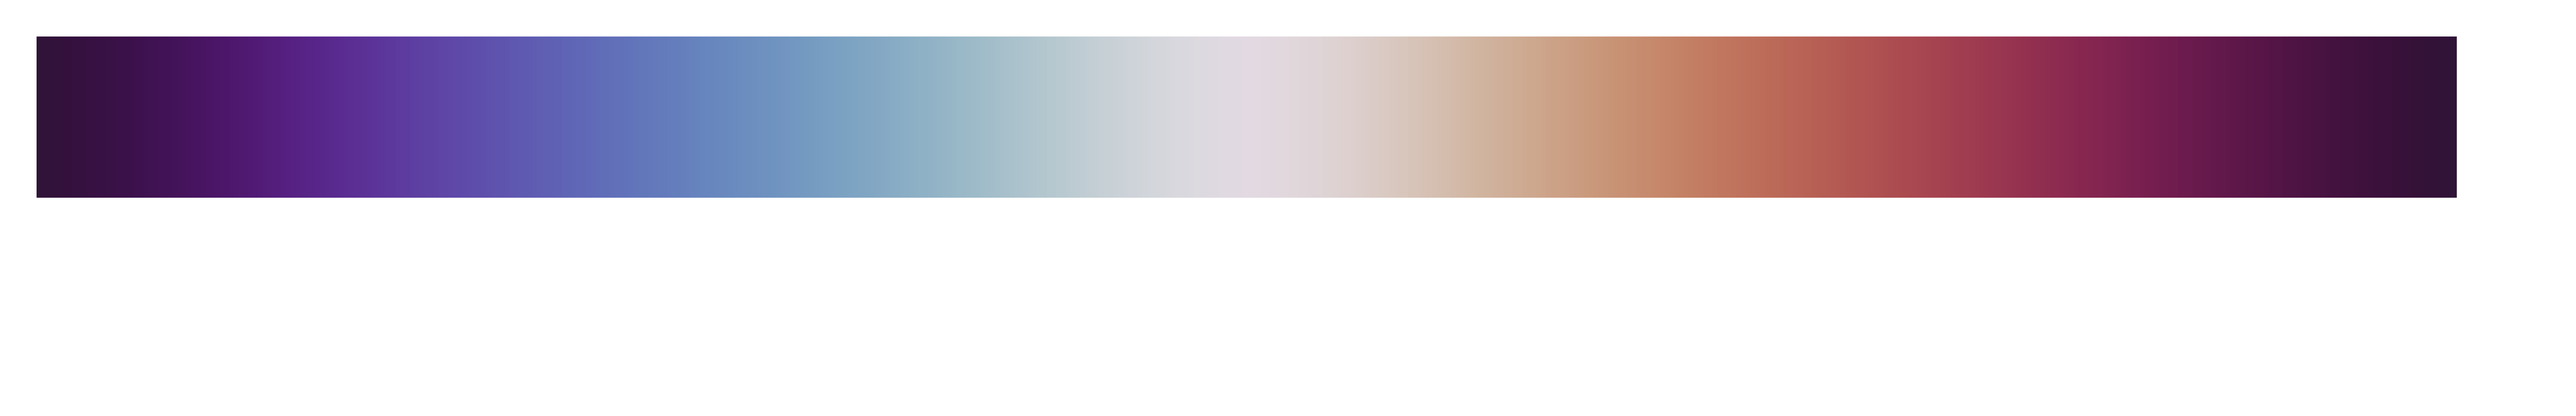
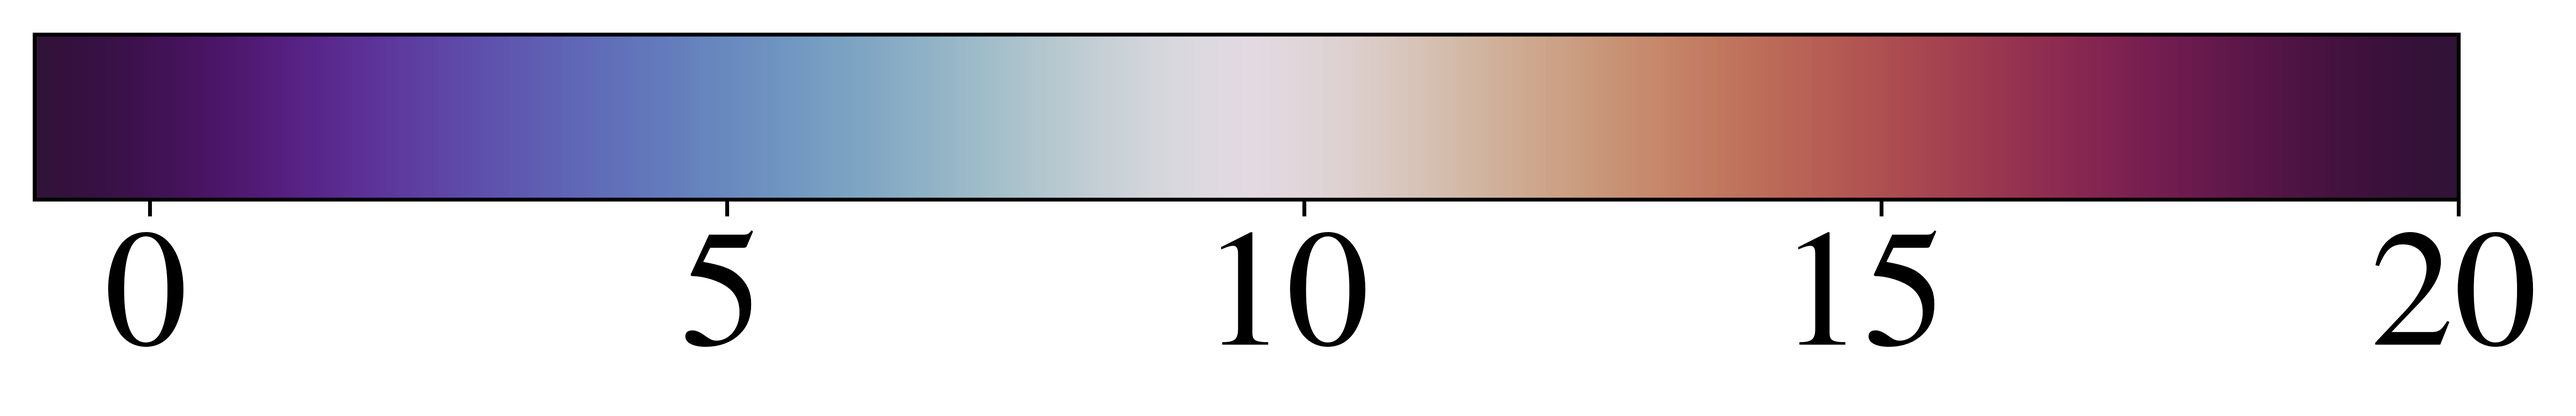
Update doc background

diff --git a/docs/background.md b/docs/background.md
@@ -1,4 +1,4 @@
-# Hyperspectral Imaging in Radio Interferometry
+# Introduction
 
 Radio interferometry (RI) is an astronomical imaging technique that combines
 measurements from arrays of antennas to form high-resolution images of the radio
@@ -15,41 +15,38 @@ imaging problem and the algorithms implemented in pyHyperRI.
 
 ## RI Imaging Model
 
-The example below shows the radio galaxy 3C 353. Radio images can have a high
-dynamic range, with faint extended emission coexisting with bright compact
-features.
+Radio images can have a high dynamic range, with faint extended emission 
+coexisting with bright compact features. The example below shows the radio galaxy 
+3C 353.
 
 ```{image} _images/background/ri-sky-3c353.png
-:alt: Original 3C 353 ground-truth radio image.
-:width: 22%
+:width: 20%
 :align: center
 ```
 
 ```{figure} _images/background/ri-log-colorbar.png
-:alt: Logarithmic intensity colour bar for the sample radio image.
-:width: 22%
+:width: 18%
 :align: center
 
-Original ground-truth image of 3C 353. The image size is
-$512 \times 512$ pixels.
+Example image for radio galaxy 3C 353.
 ```
 
-Radio interferometers do not observe this image directly. At a given frequency,
+Radio interferometers do not capture such images directly. At a given frequency,
 each antenna pair measures a spatial Fourier component of the sky brightness,
 called a visibility. The collection of sampled Fourier modes accumulated over
-baselines and time is the uv coverage. The example below shows a simulated VLA
-sampling pattern for the first channel of a hyperspectral observation.
+antenna pairs and time is the uv coverage. The example below shows a simulated 
+[Very Large Array (VLA)](https://public.nrao.edu/telescopes/vla/) uv
+sampling pattern.
 
 ```{figure} _images/background/uv-sampling-ch1.png
-:alt: Simulated VLA uv-sampling pattern for channel 1.
-:width: 30%
+:width: 20%
 :align: center
 
-Simulated VLA uv-sampling pattern for channel 1, corresponding to an
+Simulated VLA uv-sampling pattern, corresponding to an
 observation frequency of 1.00 GHz. Coordinates are given in units of wavelength.
 ```
 
-For a single spectral channel, the sensing model is commonly written as
+For a single spectral channel, this linear sensing process is commonly written as
 
 $$
 \boldsymbol{y}_l
@@ -69,50 +66,56 @@ $\mathbf{P}$. This follows the standard RI measurement view described by
 [Thompson et al. (2017)](#ref-thompson-2017).
 
 Applying the adjoint measurement operator to the visibility data gives the dirty
-image, a back-projected image whose structure is shaped by the incomplete
-Fourier coverage.
+image $\mathrm{Re} \{ \boldsymbol{\Phi}_l^\dagger \boldsymbol{y}_l \}$, a
+back-projected image whose structure is shaped by the incomplete Fourier coverage.
 
 ```{image} _images/background/ri-dirty-image-ch0.png
-:alt: Dirty image associated with channel 1 for the 3C 353 simulation.
-:width: 22%
+:width: 20%
 :align: center
 ```
 
 ```{figure} _images/background/ri-dirty-colorbar-ch0.png
-:alt: Linear intensity colour bar for the dirty image.
-:width: 22%
+:width: 18%
 :align: center
 
-Dirty image associated with channel 1 of the simulated 3C 353 inverse problem,
-shown on a linear intensity scale.
+Dirty image associated with the example image and uv sampling pattern.
 ```
 
 For hyperspectral imaging, the channel images are gathered into an image cube
 $\mathbf{X} = (\boldsymbol{x}_1,\ldots,\boldsymbol{x}_L)$, the measurements
 into $\mathbf{Y} = (\boldsymbol{y}_1,\ldots,\boldsymbol{y}_L)$, and the noise
-into $\mathbf{N} = (\boldsymbol{n}_1,\ldots,\boldsymbol{n}_L)$. The
-hyperspectral measurement operator is defined by applying each channel-specific
-operator to its corresponding channel image,
+into $\mathbf{N} = (\boldsymbol{n}_1,\ldots,\boldsymbol{n}_L)$. 
+
+```{figure} _images/background/uv-sampling-ch36.png
+:width: 20%
+:align: center
+
+Simulated VLA uv-sampling pattern, corresponding to an
+observation frequency of 1.70 GHz. Coordinates are given in units of wavelength.
+```
+
+The sampling pattern of each spectral channel is scaled by the observation frequency 
+and may be subject to different flagging patterns, so the measurement operator is
+channel-specific. The hyperspectral measurement operator can then be formulated
+as
 
 $$
 \Phi(\mathbf{X})
 = ([\boldsymbol{\Phi}_l \boldsymbol{x}_l]_{1 \leq l \leq L}).
 $$
 
-The cube-level measurement model is then
+The hyperspectral measurement model is therefore written as
 
 $$
 \mathbf{Y} = \Phi(\mathbf{X}) + \mathbf{N}.
 $$
 
-The measurement process is separable across channels, but the sky emission is
-spectrally correlated. Joint-channel imaging uses this spectral structure to
-improve reconstruction quality compared with treating each channel independently.
-
 ## Spectral Structure
 
+The measurement process is separable across channels, but the sky emission is
+spectrally correlated.
 For many continuum radio sources, the intensity varies smoothly with frequency
-and is often approximated by a power-law model
+in certain ranges and is often approximated by a power-law model
 ([Thompson et al., 2017](#ref-thompson-2017)). A common
 form relates each channel image to a reference-frequency image through a
 spectral index map and a spectral curvature map:
@@ -125,17 +128,16 @@ $$
 
 Here $\nu_l$ is the frequency of channel $l$, $\nu_0$ is a reference
 frequency, $\alpha$ is the spectral index map, and $\beta$ is the spectral
-curvature map. Related hyperspectral imaging methods also use spectral
-modelling as prior information ([Junklewitz et al., 2015](#ref-junklewitz-2015);
-[Ceccotti et al., 2023](#ref-ceccotti-2023)).
+curvature map. 
 
 ## Optimisation View
 
-RI imaging is ill-posed: directly applying the adjoint operator to the data
-produces a dirty image, which is useful for initialisation and diagnostics but
-does not by itself solve the inverse problem. A common reconstruction strategy is
-to seek an image, or image cube, that balances agreement with the measurements
-and prior knowledge about plausible astronomical images:
+Because of the incomplete and noisy Fourier measurements, RI imaging is ill-posed.
+Directly applying the adjoint operator to the data loses substantial
+structure, as shown in the example dirty image. To solve this inverse problem,
+prior information about the image is needed to regularise the solution. From the 
+optimisation perspective, RI imaging can be formulated as finding the solution of
+a minimisation problem of the form
 
 $$
 \min_{\mathbf{X}} f(\mathbf{X}) + \lambda r(\mathbf{X}).
@@ -143,10 +145,18 @@ $$
 
 The data-fidelity term $f$ measures consistency with the visibility data, while
 the regularisation term $r$ encodes prior information such as positivity,
-sparsity, or learned image models. The parameter $\lambda$ controls the balance
-between the two.
+sparsity, or learned image models.
+The spectral correlation can also serve as prior knowledge to improve the
+reconstruction quality. Some hyperspectral imaging methods choose to inject the 
+power-law spectral model as prior information 
+([Junklewitz et al., 2015](#ref-junklewitz-2015); 
+[Ceccotti et al., 2023](#ref-ceccotti-2023); [Tang et al., 2026](#ref-tang-2026)). 
+The low-rankness among the channel images is also a practical choice 
+([Thouvenin et al., 2023](#ref-thouvenin-2023)). The parameter $\lambda$
+controls the balance between the two.
 
-The first data-fidelity formulation is the unconstrained squared-error term:
+Due to the Gaussian nature of the measurement noise, there are two common
+data-fidelity formulations. The first one is the squared $\ell_2$ term:
 
 $$
 f(\mathbf{X})
@@ -175,6 +185,7 @@ $$
 Here $\mathcal{B}_l$ is the channel-wise data-fidelity ball and $\epsilon_l$
 is the residual bound associated with the noise level in channel $l$.
 
+There are various frameworks for solving this optimisation problem.
 Forward-backward algorithms apply when the objective can be split into a
 differentiable term and a non-differentiable term: a gradient step handles the
 differentiable term, and a proximity or denoising step handles the
@@ -183,6 +194,9 @@ non-differentiable term
 useful when multiple non-differentiable terms must be handled separately,
 because they introduce dual variables and split the terms across primal and dual
 updates ([Condat, 2013](#ref-condat-2013)).
+More generally, the CLEAN family of algorithms can also be viewed as an optimisation
+method based on matching pursuit, which iteratively identifies and subtracts 
+the contribution of the brightest source component from the back-projected images.
 
 pyHyperRI follows this view through a modular design: measurement operators,
 optimisers, and regularisers are implemented as separate components that can be
@@ -202,47 +216,6 @@ Currently, pyHyperRI implements the following algorithms:
 
 ## References
 
-(ref-tang-2026)=
-- Tang, C., Dabbech, A., Jackson, A., & Wiaux, Y. (2026).
-  [HyperAIRI: A Plug-and-play Algorithm for Precise Hyperspectral Image
-  Reconstruction in Radio Interferometry](https://doi.org/10.3847/1538-4365/ae3149).
-  *ApJS*, 283(1), 9.
-
-(ref-thompson-2017)=
-- Thompson, A. R., Moran, J. M., & Swenson, G. W. (2017).
-  [Interferometry and Synthesis in Radio Astronomy](https://doi.org/10.1007/978-3-319-44431-4).
-  Springer Nature.
-
-(ref-junklewitz-2015)=
-- Junklewitz, H., Bell, M. R., & Ensslin, T. A. (2015).
-  [A new approach to multifrequency synthesis in radio
-  interferometry](https://doi.org/10.1051/0004-6361/201423465).
-  *A&A*, 581, A59.
-
-(ref-ceccotti-2023)=
-- Ceccotti, E., Offringa, A. R., Koopmans, L. V. E., et al. (2023).
-  [A novel radio imaging method for physical spectral index
-  modelling](https://doi.org/10.1093/mnras/stad2465).
-  *MNRAS*, 525(3), 3946-3962.
-
-(ref-terris-2023)=
-- Terris, M., Dabbech, A., Tang, C., & Wiaux, Y. (2023).
-  [Image reconstruction algorithms in radio interferometry: From handcrafted to
-  learned regularization denoisers](https://doi.org/10.1093/mnras/stac2672).
-  *MNRAS*, 518(1), 604-622.
-
-(ref-terris-2025)=
-- Terris, M., Tang, C., Jackson, A., & Wiaux, Y. (2025).
-  [The AIRI plug-and-play algorithm for image reconstruction in
-  radio-interferometry: variations and robustness](https://doi.org/10.1093/mnras/staf022).
-  *MNRAS*, 537(2), 1608-1619.
-
-(ref-repetti-2020)=
-- Repetti, A., & Wiaux, Y. (2020).
-  [A forward-backward algorithm for reweighted procedures: Application to
-  radio-astronomical imaging](https://doi.org/10.1109/ICASSP40776.2020.9053284).
-  *Proc. IEEE Int. Conf. Acoust., Speech Signal Process*, 1434-1438.
-
 (ref-combettes-2011)=
 - Combettes, P. L., & Pesquet, J.-C. (2011).
   [Proximal Splitting Methods in Signal
@@ -255,3 +228,50 @@ Currently, pyHyperRI implements the following algorithms:
   [A primal-dual splitting method for convex optimization involving
   Lipschitzian, proximable and linear composite terms](https://doi.org/10.1007/s10957-012-0245-9).
   *J. Optim. Theory Appl.*, 158(2), 460-479.
+
+(ref-junklewitz-2015)=
+- Junklewitz, H., Bell, M. R., & Ensslin, T. A. (2015).
+  [A new approach to multifrequency synthesis in radio
+  interferometry](https://doi.org/10.1051/0004-6361/201423465).
+  *A&A*, 581, A59.
+
+(ref-thompson-2017)=
+- Thompson, A. R., Moran, J. M., & Swenson, G. W. (2017).
+  [Interferometry and Synthesis in Radio Astronomy](https://doi.org/10.1007/978-3-319-44431-4).
+  Springer Nature.
+
+(ref-repetti-2020)=
+- Repetti, A., & Wiaux, Y. (2020).
+  [A forward-backward algorithm for reweighted procedures: Application to
+  radio-astronomical imaging](https://doi.org/10.1109/ICASSP40776.2020.9053284).
+  *Proc. IEEE Int. Conf. Acoust., Speech Signal Process*, 1434-1438.
+
+(ref-terris-2023)=
+- Terris, M., Dabbech, A., Tang, C., & Wiaux, Y. (2023).
+  [Image reconstruction algorithms in radio interferometry: From handcrafted to
+  learned regularization denoisers](https://doi.org/10.1093/mnras/stac2672).
+  *MNRAS*, 518(1), 604-622.
+
+(ref-thouvenin-2023)=
+- Thouvenin, P.-A., Abdulaziz, A., Dabbech, A., Repetti, A., & Wiaux, Y. (2023).
+  [Parallel faceted imaging in radio interferometry via proximal splitting
+  (Faceted HyperSARA): I. Algorithm and simulations](https://doi.org/10.1093/mnras/stac1521).
+  *MNRAS*, 521(1), 1-19.
+
+(ref-ceccotti-2023)=
+- Ceccotti, E., Offringa, A. R., Koopmans, L. V. E., et al. (2023).
+  [A novel radio imaging method for physical spectral index
+  modelling](https://doi.org/10.1093/mnras/stad2465).
+  *MNRAS*, 525(3), 3946-3962.
+
+(ref-terris-2025)=
+- Terris, M., Tang, C., Jackson, A., & Wiaux, Y. (2025).
+  [The AIRI plug-and-play algorithm for image reconstruction in
+  radio-interferometry: variations and robustness](https://doi.org/10.1093/mnras/staf022).
+  *MNRAS*, 537(2), 1608-1619.
+
+(ref-tang-2026)=
+- Tang, C., Dabbech, A., Jackson, A., & Wiaux, Y. (2026).
+  [HyperAIRI: A Plug-and-play Algorithm for Precise Hyperspectral Image
+  Reconstruction in Radio Interferometry](https://doi.org/10.3847/1538-4365/ae3149).
+  *ApJS*, 283(1), 9.
